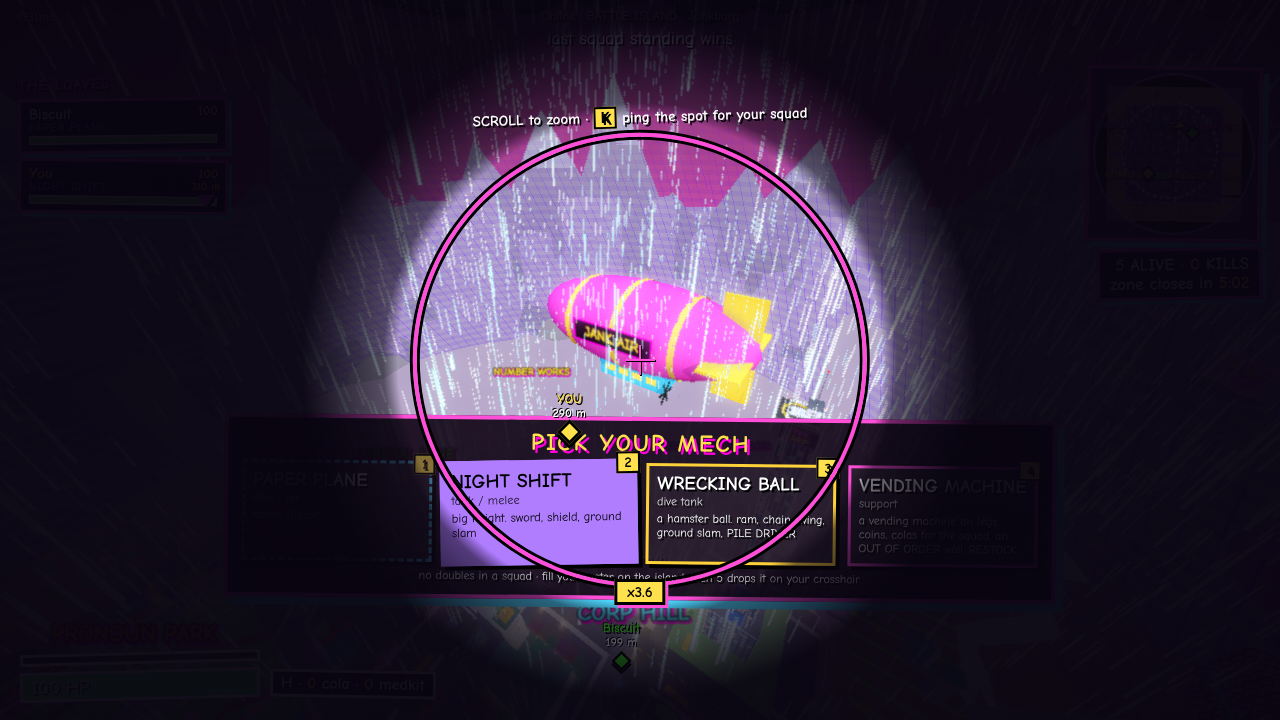
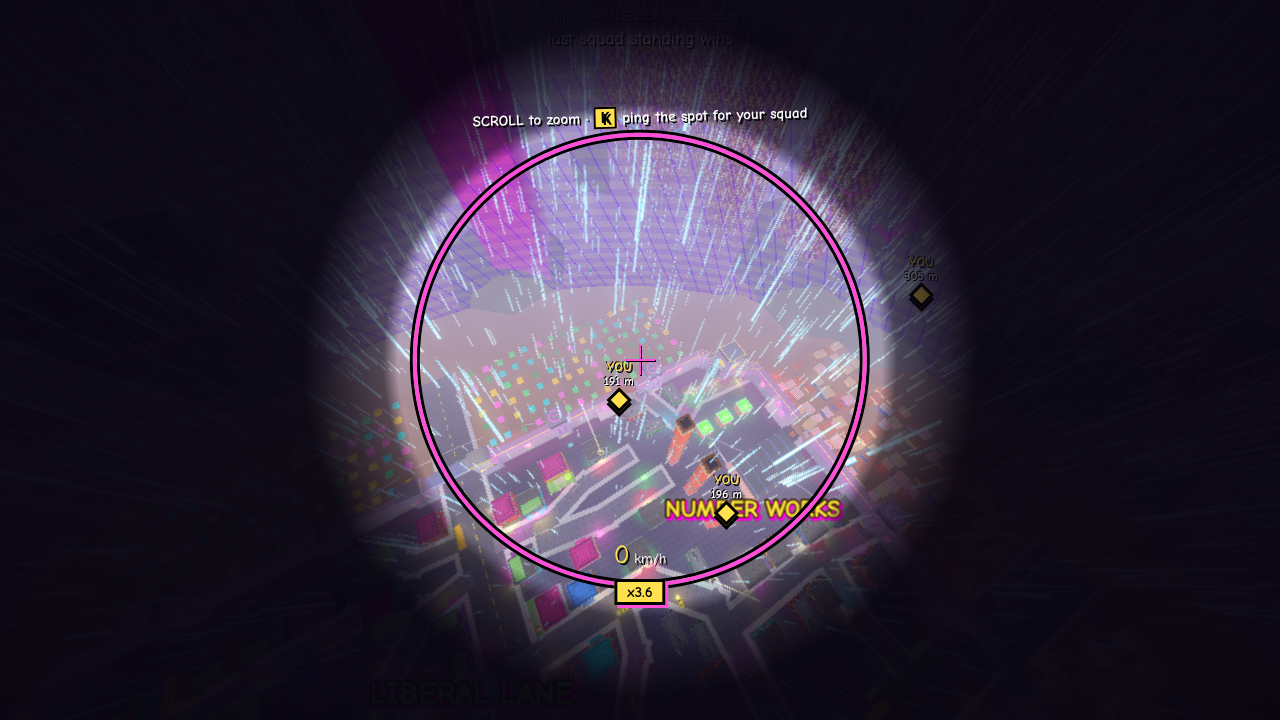
Blimp spyglass: clear view, steadier aim, looks from the gondola
While you hold the spyglass, the hero pick panel, the big callouts, the squad panel and the small maps step
out of the way so they don't cover the scope. Aiming slows down with the zoom (x3 zoom = a third of the
turn), only while scoped, so you can line up a landing spot. And the scope now looks from the gondola, so
the blimp itself isn't in the middle of the view when you look down.

Claude-Session: https://claude.ai/code/session_011tKQCqevCmXkNwmvH5JBXp

Changed region(s): [[0.25, 0.0917, 0.75, 0.9472]]

diff --git a/public/js/royale.js b/public/js/royale.js
@@ -27,7 +27,7 @@ const R = {
   me: { inBlimp: false, fly: null, late: false, place: 0 }, inv: null, key: '', held: new Set(), reserve: {}, shots: {},
   ar: 0, heal: null, spec: 0, specSnap: true, win: -1, focus: null, autoT: new Map(), zoneTick: 0, umb: new Map(),
   leader: 0, crates: new Map(), goblins: new Map(), poi: null, vend: -1, mailAt: 0,
-  glass: { on: false, zoom: 3, z: 1 }, // the blimp spyglass: zoom held, the wanted level, the eased level
+  glass: { on: false, zoom: 3, z: 1, ly: null, lp: null }, // the blimp spyglass: zoom held, the wanted level, the eased level, last look (for the slow aim)
 };
 export const brOn = () => R.on;
 export const brDead = () => R.on && !ME.alive;
@@ -463,13 +463,13 @@ const camPos = new THREE.Vector3(), tmp = new THREE.Vector3();
 let glassEl = null;
 function glassHud() {
   if (glassEl) return glassEl;
-  const s = document.createElement('style'); s.textContent = '#brGlass{position:fixed;inset:0;pointer-events:none;z-index:28;display:none;font-family:var(--font)}#brGlass .ring{position:absolute;inset:0;background:radial-gradient(circle at 50% 50%, transparent 0 32%, transparent 33%, rgba(8,4,16,0.55) 35%, rgba(8,4,16,0.96) 46%)}#brGlass .ring::before{content:"";position:absolute;left:50%;top:50%;width:62vmin;height:62vmin;transform:translate(-50%,-50%);border:4px solid #ff4fd8;border-radius:50%;box-shadow:0 0 0 3px #000, inset 0 0 0 3px #000}#brGlass .x{position:absolute;left:50%;top:50%;width:30px;height:30px;transform:translate(-50%,-50%);color:#ff4fd8}#brGlass .x::before,#brGlass .x::after{content:"";position:absolute;background:#ff4fd8;box-shadow:1px 1px 0 #000}#brGlass .x::before{left:14px;top:0;width:2px;height:30px}#brGlass .x::after{top:14px;left:0;height:2px;width:30px}#brGlass .z{position:absolute;left:50%;bottom:16%;transform:translateX(-50%);background:#ffe14d;color:#000;border:3px solid #000;box-shadow:3px 3px 0 #ff4fd8;font:bold 15px var(--font);padding:1px 10px}#brGlass .tip{position:absolute;left:50%;top:15%;transform:translateX(-50%) rotate(-1.5deg);color:#fff;text-shadow:2px 2px 0 #000;font:bold 15px var(--font);white-space:nowrap}#brGlass .tip kbd{background:#ffe14d;color:#000;border:2px solid #000;padding:0 5px}'; document.head.appendChild(s);
+  const s = document.createElement('style'); s.textContent = '#brGlass{position:fixed;inset:0;pointer-events:none;z-index:28;display:none;font-family:var(--font)}#brGlass .ring{position:absolute;inset:0;background:radial-gradient(circle at 50% 50%, transparent 0 32%, transparent 33%, rgba(8,4,16,0.55) 35%, rgba(8,4,16,0.96) 46%)}#brGlass .ring::before{content:"";position:absolute;left:50%;top:50%;width:62vmin;height:62vmin;transform:translate(-50%,-50%);border:4px solid #ff4fd8;border-radius:50%;box-shadow:0 0 0 3px #000, inset 0 0 0 3px #000}#brGlass .x{position:absolute;left:50%;top:50%;width:30px;height:30px;transform:translate(-50%,-50%);color:#ff4fd8}#brGlass .x::before,#brGlass .x::after{content:"";position:absolute;background:#ff4fd8;box-shadow:1px 1px 0 #000}#brGlass .x::before{left:14px;top:0;width:2px;height:30px}#brGlass .x::after{top:14px;left:0;height:2px;width:30px}#brGlass .z{position:absolute;left:50%;bottom:16%;transform:translateX(-50%);background:#ffe14d;color:#000;border:3px solid #000;box-shadow:3px 3px 0 #ff4fd8;font:bold 15px var(--font);padding:1px 10px}#brGlass .tip{position:absolute;left:50%;top:15%;transform:translateX(-50%) rotate(-1.5deg);color:#fff;text-shadow:2px 2px 0 #000;font:bold 15px var(--font);white-space:nowrap}#brGlass .tip kbd{background:#ffe14d;color:#000;border:2px solid #000;padding:0 5px}body.br-glass #isleHero,body.br-glass #brBig,body.br-glass #isleBig,body.br-glass #isleMm,body.br-glass #isleSq,body.br-glass #brHud,body.br-glass #brPrompt,body.br-glass #brHeals,body.br-glass #brArmor,body.br-glass #hpbox,body.br-glass #mmWrap{visibility:hidden !important}'; document.head.appendChild(s);
   glassEl = document.createElement('div'); glassEl.id = 'brGlass';
   glassEl.innerHTML = `<div class="ring"></div><div class="x"></div><div class="z"></div><div class="tip">SCROLL to zoom · <kbd>${K.label('ping')}</kbd> ping the spot for your squad</div>`;
   document.body.appendChild(glassEl);
   return glassEl;
 }
-function glassOff() { R.glass.on = false; R.glass.z = 1; W.zoom = 1; if (glassEl) glassEl.style.display = 'none'; }
+function glassOff() { R.glass.on = false; R.glass.z = 1; R.glass.ly = R.glass.lp = null; W.zoom = 1; if (glassEl) glassEl.style.display = 'none'; document.body.classList.remove('br-glass'); }
 // called each frame while you ride: aim held = zoom. eased so it doesn't snap
 function glassStep(dt) {
   const inB = R.on && ME.alive && R.me.inBlimp && !RP.active;
@@ -480,9 +480,14 @@ function glassStep(dt) {
   R.glass.z += (target - R.glass.z) * Math.min(1, dt * 12);
   if (R.glass.z < 1.02) R.glass.z = target === 1 ? 1 : R.glass.z;
   W.zoom = inB ? R.glass.z : 1; // main.js divides the camera fov by W.zoom
+  // slower look while scoped, by the zoom: scale this frame's mouse turn (only here: weapon ADS state is never touched)
+  const g0 = R.glass;
+  if (inB && g0.z > 1.02 && g0.ly != null) { ME.yaw = g0.ly + (ME.yaw - g0.ly) / g0.z; ME.pitch = g0.lp + (ME.pitch - g0.lp) / g0.z; }
+  g0.ly = ME.yaw; g0.lp = ME.pitch;
   const g = glassHud();
   const show = inB && R.glass.z > 1.08;
   g.style.display = show ? 'block' : 'none';
+  document.body.classList.toggle('br-glass', show); // the hero pick + big callouts get out of the scope's way
   if (show) g.querySelector('.z').textContent = `x${R.glass.z.toFixed(1)}`;
   if (!inB && R.glass.on) glassOff();
 }
@@ -494,6 +499,7 @@ export function brCam(dt, cam) {
   if (ME.alive && R.me.inBlimp) {
     const bp = blimpAt(R.path, st()), cp = Math.cos(ME.pitch);
     const d = [-Math.sin(ME.yaw) * cp, Math.sin(ME.pitch), -Math.cos(ME.yaw) * cp];
+    if (R.glass.z > 1.08) { cam.position.set(bp[0], bp[1] - 4.5, bp[2]); cam.rotation.set(ME.pitch, ME.yaw, 0); return true; } // scoped: you look through it from the gondola, so the blimp isn't in the way
     cam.position.set(bp[0] - d[0] * 46, bp[1] + 6 - d[1] * 46, bp[2] - d[2] * 46);
     cam.lookAt(bp[0], bp[1] - 2, bp[2]);
     return true;
